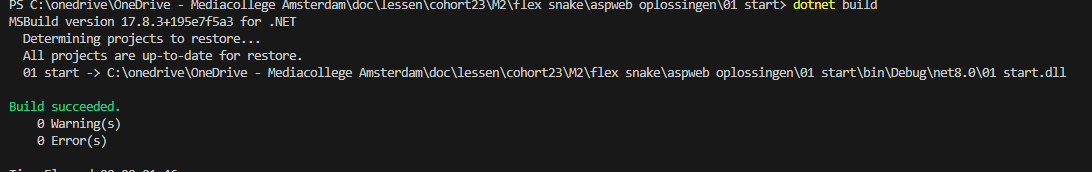
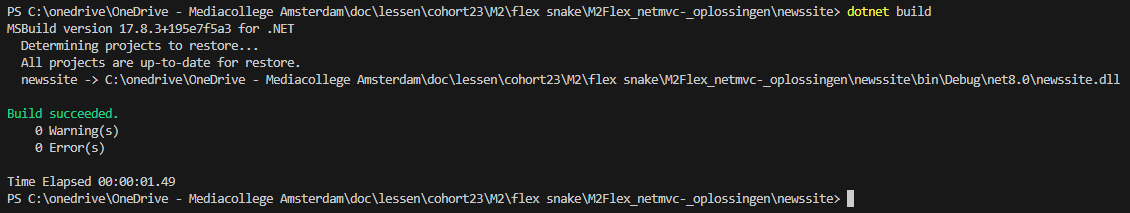
better names

diff --git a/02 eerste project.md b/02 eerste project.md
@@ -1,22 +1,11 @@
+## startup
 
-## Json...
-
-Json is leuk maar vaak komt data uit een database
-
-- open een terminal in je `01 start`
-    - type `dotnet add package Microsoft.Data.Sqlite`
-    - type `dotnet add package Microsoft.EntityFrameworkCore`
-    > hier halen we een code library van het internet en koppelen we die aan ons project
-
-
-///Microsoft.EntityFrameworkCore.SqlServer
-> [https://learn.microsoft.com/en-us/dotnet/standard/data/sqlite/?tabs=netcore-cli](https://learn.microsoft.com/en-us/dotnet/standard/data/sqlite/?tabs=netcore-cli)
 - maak een repository:
     - `M2flex_ASP`
 - clone die naar je PC
 
 - maak in die `M2flex_ASP`  een nieuwe directory:
-    - `01 start`
+    - `newssite`
 - maak een `.gitignore` file
     - zet daar het volgende in:
     ```
@@ -33,22 +22,22 @@ Json is leuk maar vaak komt data uit een database
 .net heeft veel verschillende project types, wij gebruiken nu even de `MVC` variant
 
 - maak een nieuwe directory:
-    - `01 start`
+    - `newssite`
     - `screenshots`
 - open je terminal/cmd
-    - ga naar je `01 start` directory
+    - ga naar je `newssite` directory
     - type `dotnet new mvc`
     > ![](img/newproject.PNG)
 
 
 ## openen:
 
-- open de directory `01 start` in visual studio code:
+- open de directory `newssite` in visual studio code:
     > ![](img/macvisual.PNG)
 
 ## draaien
 
-- ga naar je `01 start` directory
+- ga naar je `newssite` directory
 - in je terminal type :
     - `dotnet build`
     > ![](img/build.PNG)
